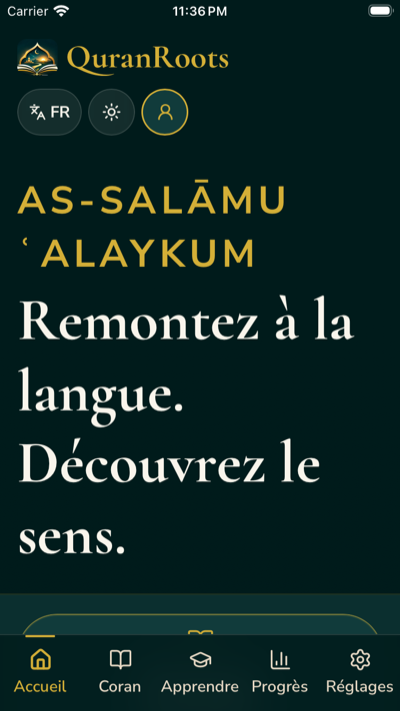
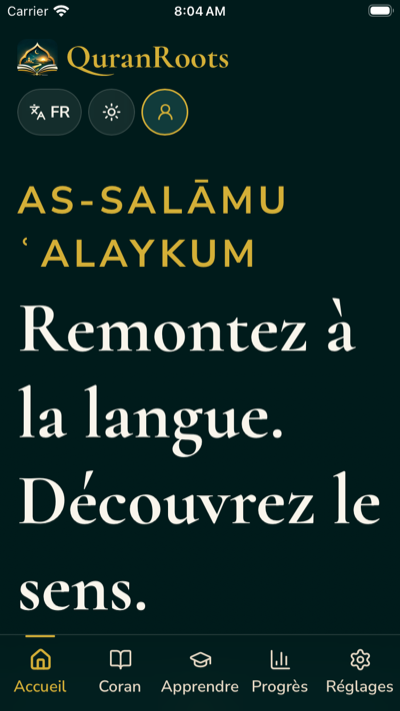
docs: QR-FIX-009 report

Changed region(s): [[0.03, 0.4023, 0.96, 0.8973], [0.84, 0.6498, 0.96, 0.7426], [0.42, 0.0, 0.57, 0.0309]]

diff --git a/QR-FIX-009-REPORT.md b/QR-FIX-009-REPORT.md
@@ -1,0 +1,136 @@
+# QR-FIX-009: targeted release-blocking corrections
+
+Branch `fix/qr-fix-009`, local only, from `feat/qr-design-008b` @ `8cd0d79`. Final code commit `12f64ba`. Nothing was pushed, merged,
+deployed or changed outside the repository. Production Deployment run `44967138877` is untouched. No artwork, logo, billing, live
+configuration, production data, Quran text, translation or source status was changed.
+
+Commits on top of `8cd0d79`: `44bbcc2` (headline fix, Android Practice step), `0ca08d5` (WebKit logout tests), `3f13043` (cold-server timeout),
+`9ff8686` (sidebar highlight, null audio sink), `4b2a073` (onboarding title, screenshots), `12f64ba` (final width caps), plus this report.
+
+## 1. iPhone SE French headline
+
+**Reproduced** on the iPhone SE simulator at the largest text size: "Remonte / z à la langue." Also reproduced in Chromium by setting the app's
+own system-text-scale variable (3.1x) at 375 px: 5 of 27 test combinations failed, so the defect was **wider than French on one phone**: French at
+320, 375 and 390 px, English at 320 px and Arabic at 320 px.
+
+**Root cause.** The Home headline (`.tagline`) is sized in `rem`, so it grows with the system text size. At the largest sizes on a narrow phone its
+longest word ("Remontez", "Découvrez") is wider than the screen. Since QR-DESIGN-007C a global `overflow-wrap: anywhere` then splits any word that
+does not fit, anywhere.
+
+**Fix** (`mobile/src/styles.css`): cap the size relative to the width, `font-size: min(1.75rem, 18vw)`. At normal sizes `1.75rem` is the smaller
+value, so nothing changes; at the largest sizes the word fits and the headline stays several times the body size. `vw` rather than a container query
+because the app's iOS target is 14, which has no container query units. The cap was first 15vw; that fixed the splitting but made the onboarding
+title smaller than the body text, so I raised it to the largest value at which the words still fit (a regression of large-text hierarchy I introduced
+and then corrected).
+
+**A second instance found by looking at screenshots.** My first SE "default size" run failed because the simulator was still at the largest size from
+my earlier check (my script error), and the screenshot showed the onboarding title "QuranRoots" breaking as "QuranRo / ots": the same cause. Same fix,
+`min(1.9rem, 16vw)` (and the short-screen variant).
+
+**Tests.** 45 new Chromium tests (`headline-wrap.spec.ts`, `onboarding-title-wrap.spec.ts`: English, French and Arabic, 320/375/390 px, 1x/2x/3.1x,
+measuring whether any word spans two lines, and no sideways overflow). They fail without the fix (5 headline, 6 onboarding) and pass with it.
+Confirmed on real WebKit: iPhone SE at the largest text size, French Home and the onboarding screen render whole words.
+Before and after: `docs/qr-fix-009/ios-se-largest-text-fr-home-BEFORE.png` / `-AFTER.png`, `ios-se-largest-text-onboarding-BEFORE.png` / `-AFTER.png`,
+`ios-se-largest-text-en-home-AFTER.png`.
+
+**Not damaged:** English, Arabic and RTL layouts pass the new tests and the iOS Arabic RTL test; responsive and large-text tests pass (section 6).
+**Limit:** other headings (`h1` to `h3`) still carry `overflow-wrap: anywhere` and could split a word wider than the screen at the largest size; I
+fixed the two found, not every heading.
+
+## 2. Android Practice smoke step
+
+**Verdict: the test script, not the app, not the scrolling itself.** Evidence:
+
+- The Practice shortcut works: after scrolling Home, a physical tap on it opens the Practice screen ("Review exercises from your lessons")
+  (`android-practice-opened-AFTER.png`). Home is a normal scrolling page; at first view the Shortcuts row is below the fold, faintly visible behind the
+  floating tab bar (`android-home-first-view-practice-behind-tab-bar-BEFORE.png`).
+- Once Home had been scrolled, UI Automator reported every node in the WebView shifted up by about 590 px, **including the fixed tab bar and the
+  WebView's own bounds** (Practice at y 991 to 1183 when it really sits at about 1582 to 1773). That is the offset quirk the suite's own comments
+  describe. The script tapped the reported centre and hit the Home reading card, which opened the Surah list.
+- My first attempted fix (swipe, wait, re-dump) failed the same way, and a naive swipe-and-tap version broke 8 later steps, which is how I confirmed
+  the cause was the reported coordinates and not timing.
+
+**Fix** (`mobile/e2e/android-smoke/run.sh`): like `font-scale.sh`, take the tap position from the page's own layout over DevTools (scroll the Practice
+button to the middle, read its rect, add the WebView's top edge), addressing the app by its own process id, then return Home to the top so later
+bounds-based taps are not shifted. Result: smoke suite **50 of 50** (was 49 of 50).
+
+## 3. The two WebKit logout failures
+
+Reproduced against the #101 baseline build and the current build, 5 runs each: both tests failed **5 of 5 on both** (so not a regression from 008B).
+
+**Root cause (tests, not the app).** Probes showed that right after login WebKit logs "Importing a module script failed" and the page then reloads
+`/dashboard`, interrupting the test's next `goto("/quran")` ("Navigation ... is interrupted by another navigation to /dashboard"). The reload comes
+from TanStack Router's `lazyRouteComponent`: when a lazy route chunk import fails with a "module not found" style error it reloads the page once (meant
+for stale deployments). WebKit reports an import **cancelled by a navigation** with that same message; Chromium does not. The test navigated while the
+dashboard chunks were still loading. The logout test then clicked on a page that had just been reloaded.
+**Fix** (`auth.spec.ts`): wait for the post-login route to finish loading before navigating. Both tests then pass 3 of 3 on the baseline and the
+current build. **App note, not changed:** a Safari user who navigates away very quickly while a route chunk loads could see the page reload once
+(the library's guard allows one reload per message per session); it is the router's intended behaviour.
+
+## 4. Zod guard
+
+Run from the docs branch against this code: **2 of 2 pass**; adding a `z.array(...)` file makes it fail (mutation check). Zod is still **3.25.76**
+(`package.json` and the lockfile are unchanged), and `npm audit --omit=dev` still lists only `zod`. No upgrade, and the rejected `zod/v3` route is not used.
+
+## 5. PR #104 Mobile CI
+
+All jobs pass: classify changes, mobile content checks status, mobile static checks, quran content integrity, **full Quran database rebuilt from
+repository sources** (8m25s), and the **mobile release gate**. One job, "mobile content checks (approved Quran database)", is _skipped_ by design
+(the approved-database job runs only for PRs into `main`; #104's base is #97's branch). The `test` workflow also does not run on this base. No outstanding
+failures. (CI was checked once at the start of this phase and again after it completed.)
+
+## 6. Regression on the final candidate
+
+| Check                                                                                             | Result                                                                                                                                                                                                                                 |
+| ------------------------------------------------------------------------------------------------- | -------------------------------------------------------------------------------------------------------------------------------------------------------------------------------------------------------------------------------------- |
+| TypeScript (root, mobile)                                                                         | pass                                                                                                                                                                                                                                   |
+| ESLint, all tracked files                                                                         | 0 errors, 20 warnings (pre-existing)                                                                                                                                                                                                   |
+| Website unit                                                                                      | 301 pass                                                                                                                                                                                                                               |
+| Mobile unit (verified copy of the approved DB, `REQUIRE_CONTENT_DB=1`)                            | 163 of 163                                                                                                                                                                                                                             |
+| Website Playwright, Chromium, full (680 tests, commit `9ff8686`)                                  | **662 passed, 3 failed, 15 skipped** (skips = production-targeted specs). The 3 failures (a CSS-art test and two lesson/DB tests, each a timeout under machine load) **pass when their spec files are re-run alone: 42 of 42**         |
+| WebKit, signed-out (150, built Worker)                                                            | 148 passed, 2 failed (a Reader test and a redirect test, 33 s timeouts); both pass 3 of 3 on re-run. The two logout tests from 008B now pass                                                                                           |
+| WebKit, signed-in subset (34)                                                                     | 33 passed, 1 failed (Memorize ring, 33 s timeout); passes 3 of 3 on re-run                                                                                                                                                             |
+| Mobile Playwright (270, includes the 45 new tests) and mobile CSP spec (4)                        | all pass                                                                                                                                                                                                                               |
+| CSP functionality and security (spec 77, Chromium and WebKit)                                     | pass                                                                                                                                                                                                                                   |
+| Full DB rebuild, content fingerprint `b586ba39…1225b1`, full fingerprint (20 tables, 27,247 rows) | pass                                                                                                                                                                                                                                   |
+| Approved database file hash                                                                       | `43441fa8b2c3f225…` unchanged; no sidecars; only copied, never opened in place                                                                                                                                                         |
+| Artwork guard (web and mobile builds)                                                             | pass                                                                                                                                                                                                                                   |
+| Android emulator (5558): smoke / font scale 1.0 to 2.0                                            | **50 of 50** / **24 of 24**                                                                                                                                                                                                            |
+| iOS iPhone SE (3rd gen): default text / largest accessibility text                                | **3 of 3** / **3 of 3**                                                                                                                                                                                                                |
+| iOS iPhone 17 Pro: 3 UI tests + accessibility audit                                               | all pass                                                                                                                                                                                                                               |
+| E2E Supabase isolation safeguard                                                                  | the setup script was run only with an explicit disposable workdir (created and "already exists" paths). I did **not** re-demonstrate the mismatch refusal this phase, because that would have run `supabase status` against your stack |
+
+Web code changed in this phase only in `SettingsNav.tsx` (below); the later commits (`4b2a073`, `12f64ba`) touch only `mobile/` and docs, so the full web
+run on `9ff8686` covers the final web code.
+
+**Corrections found by the regression work** (all fixed, all in my own earlier work or the harness):
+
+- **Settings sidebar (a real defect in my 008B feature):** clicking an entry near the bottom of the page marked it current, then the scroll-spy's
+  bottom-of-page rule overrode it (clicking "Display preferences" highlighted "Account"). A click now holds for 1.5 s. The keyboard test that
+  caught it failed before the fix and passes after (12 of 12).
+- **Audio specs 45 and 47 (7 tests) failed deterministically, including on the #101 baseline.** Headless Chromium on this Mac could not play even a
+  0.3 s clip to the end (the clock froze at 0.06 s). Chromium now runs with `--disable-audio-output` (a null audio sink), which the audio specs
+  do not need; all 25 pass. Sound is not under test.
+- **Spec 53** failed deterministically because a freshly started dev server needs about 10 s to compile `/dashboard` on first visit and the
+  test waited 5 s; the assertion is unchanged, its timeout is now sized for a cold server.
+
+## 7. Incidents and limits
+
+- **The machine was overloaded for most of this phase** (load average above 300; Docker's VM and iCloud sync were busy; a 4-day-old emulator that is
+  not mine used about 280% CPU). Part of that was mine: I left an Android emulator and a simulator running during a long website run. The first
+  full website run took 1.6 hours with 45 failures; I stopped, ran one heavy job at a time, and re-ran. Results above are from those runs.
+- **Your emulators.** At the end `adb devices` showed no emulators other than mine, and the crash log my emulator printed referenced an `qf_test`
+  crash. I did not touch the Pixel_9 or qf_test emulators; I cannot say when or why they stopped.
+- **I looked at Docker container CPU for all containers once** (`docker stats`, including yours) while diagnosing the overload. I read no data from any
+  Supabase stack of yours.
+- Another self-matching wait in a script of mine cost time again; I switched to checking output files.
+- **Cleanup error in 008B, still open:** the other worktrees (`qr-008a`, `qr-008b`, `qr-visual`, `qr-web-csp`, `qr-integ-web`) have no `node_modules`.
+  This worktree (`qr-fix009`) has its own; I removed the temporary baseline worktree.
+
+## 8. Unresolved blockers
+
+1. Other headings (`h1` to `h3`) still use `overflow-wrap: anywhere`; a long word could still split at the largest sizes on a narrow phone.
+2. The mobile Android smoke script depends on DevTools coordinates for Practice; other bounds-based taps remain subject to the offset quirk.
+3. Machine-load sensitivity: three website tests, three WebKit tests and the cold-start tests only pass reliably on a quiet machine.
+4. Release blockers from 008B are unchanged: emblem rights, unreviewed Reflect prompts and FR/AR labels, hero artwork rights, CSP rollout decision.
+5. `feat/qr-design-008b` (#104) does not contain these fixes; they exist only on this local branch until you approve a push.
